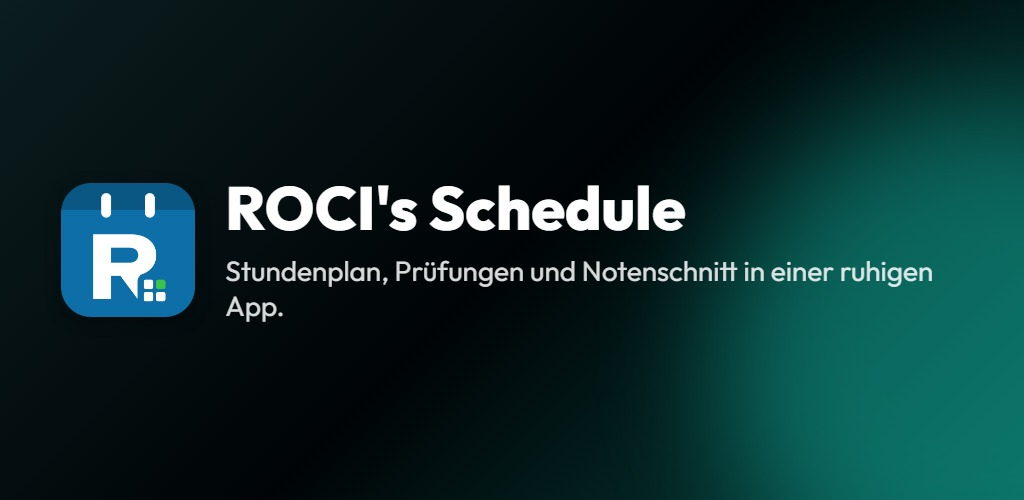
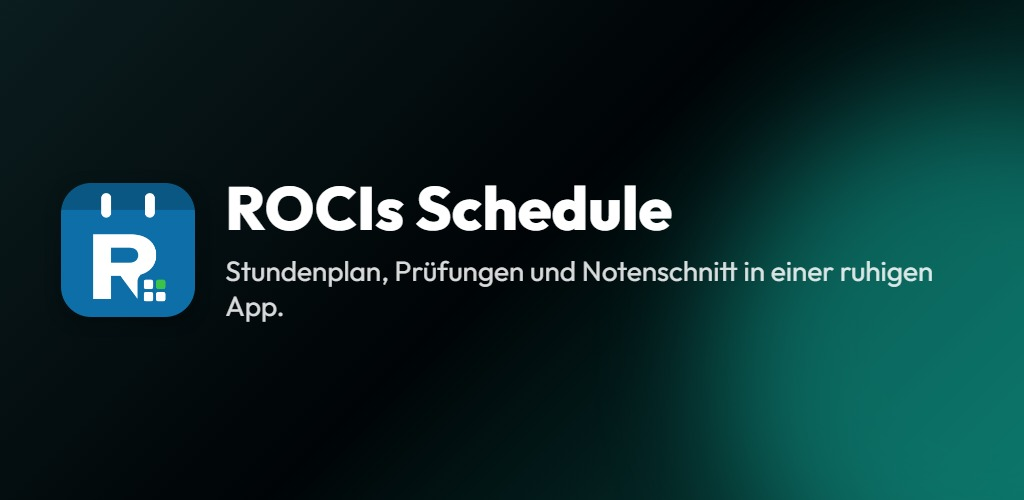
chore(brand): ROCIs spelling in theme name, README and feature graphics

Changed region(s): [[0.3438, 0.36, 0.6875, 0.48]]

diff --git a/lib/shared/theme/app_theme.dart b/lib/shared/theme/app_theme.dart
@@ -61,7 +61,7 @@ class AppDesignTokens extends ThemeExtension<AppDesignTokens> {
 }
 
 class AppTheme {
-  // ROCI's Standard Color Tokens
+  // ROCIs Standard Color Tokens
   static const Color primaryIndigo = Color(0xFF6366F1);
 
   // Brand palette, taken from the app logo: an ocean-blue badge fading to

diff --git a/README.md b/README.md
@@ -22,7 +22,7 @@
 
 ## 🌟 Overview
 
-**ROCIs Schedule** is an offline-first academic management app designed for students and educators. Built with Flutter and adhering to ROCI's Design System, it unifies weekly lecture schedules, live exam countdown alerts, weighted GPA simulations, assignment tracking, and 1-tap `.ics` calendar imports from Canvas, Moodle, and Google Calendar.
+**ROCIs Schedule** is an offline-first academic management app designed for students and educators. Built with Flutter and adhering to ROCIs Design System, it unifies weekly lecture schedules, live exam countdown alerts, weighted GPA simulations, assignment tracking, and 1-tap `.ics` calendar imports from Canvas, Moodle, and Google Calendar.
 
 ---
 
@@ -105,7 +105,7 @@ graph TD
 - **State Management:** `provider`
 - **Persistence:** `sqflite` (Offline-first local SQLite cache) & `shared_preferences`
 - **Cloud Backend:** Firebase Auth & Cloud Firestore
-- **UI & Theming:** Google Fonts `Outfit`, `GlassContainer`, ROCI's Design Tokens
+- **UI & Theming:** Google Fonts `Outfit`, `GlassContainer`, ROCIs Design Tokens
 - **Routing:** `go_router`
 - **Testing:** 69 exhaustive unit, widget, and adversarial stress tests (`ruthless_edge_cases_test.dart`)
 
